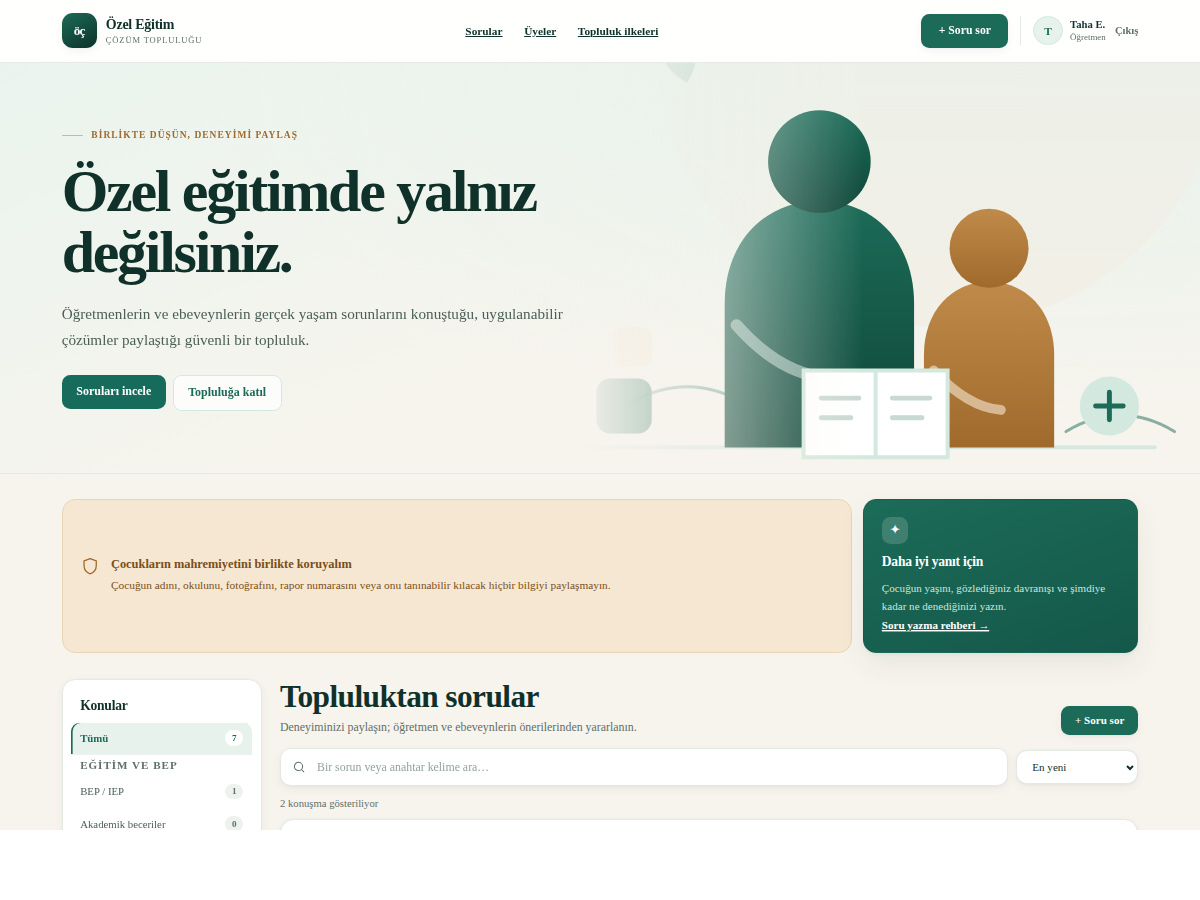
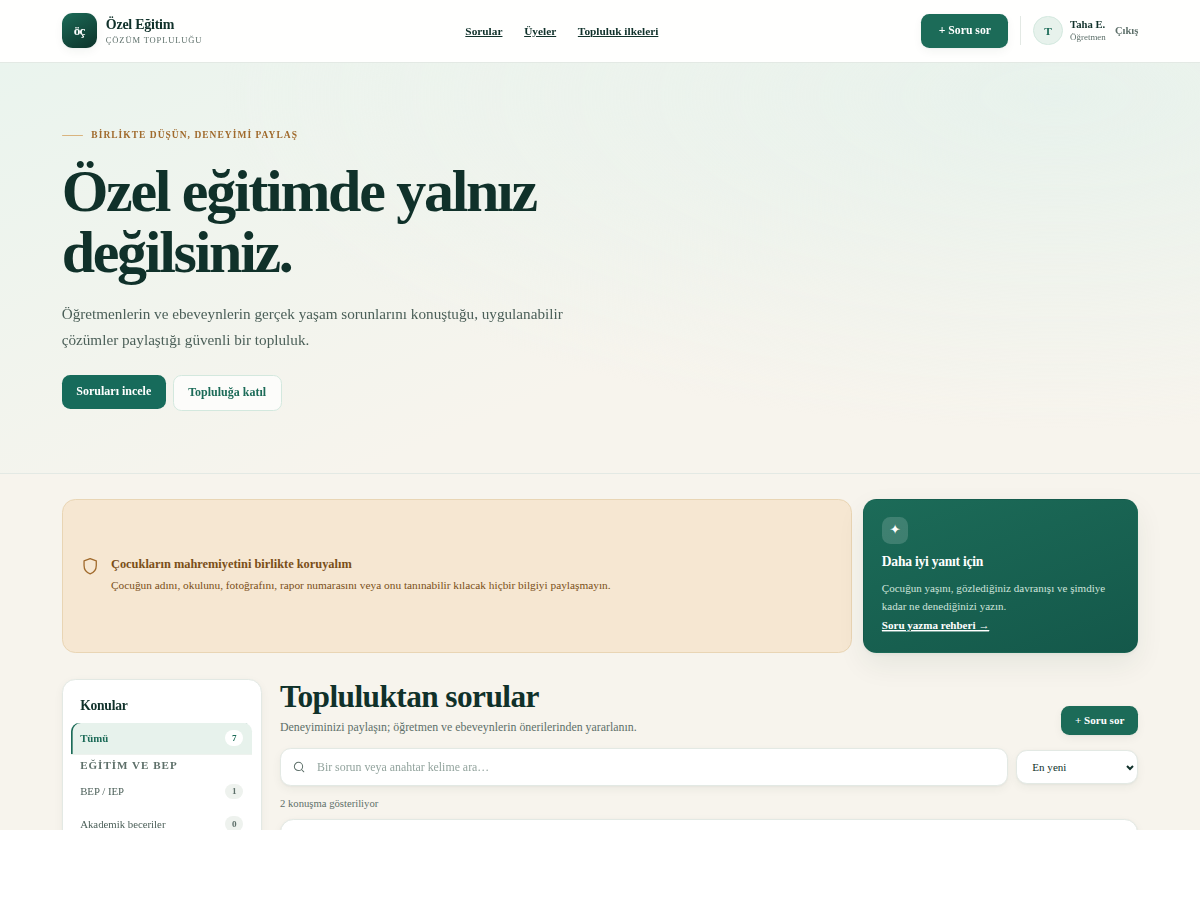
Manset gorsel alanini bos birak, fotografa hazir hale getir
Sürüm 1.4.1.

- Geçici çizim kaldırıldı (kullanıcı çizim istemiyor).
- Manşet görsel alanı boş geliyor. Fotoğraf konulmadığında ön yüzde hiç
  görünmüyor (:not(:has(img)) ile gizleniyor), manşet normal duruyor.
- Düzenleyicide alan boş görsel bloğu olarak görünüyor; "Yükle" veya "Ortam
  kitaplığı" ile fotoğraf oradan konuluyor. Sağa yaslama, silikleşme ve
  ekran boyutuna uyum temadan geldiği için hangi fotoğraf konursa konsun
  çalışıyor.
- Renkli fotoğrafların temanın soluk paletiyle çarpışmaması için hafif
  doygunluk yumuşatması ve silikleşme tarafında ince bir nane yıkaması
  eklendi (yalnızca fotoğraf varken uygulanıyor).
- README'ye telif uyarısı eklendi: bir fotoğrafın internette görünüyor
  olması onu serbest yapmaz; Google Görseller lisans kaynağı değildir.

Claude-Session: https://claude.ai/code/session_012Um5jKRdN21MgjSPUKTU4V

Changed region(s): [[0.5858, 0.1244, 0.9867, 0.5289], [0.4933, 0.4044, 0.555, 0.4978]]

diff --git a/wordpress/ozel-egitim-sohbet/style.css b/wordpress/ozel-egitim-sohbet/style.css
@@ -4,7 +4,7 @@ Theme URI: https://example.com/ozel-egitim-sohbet
 Author: Özel Eğitim Çözüm Topluluğu
 Author URI: https://example.com/
 Description: Özel eğitim öğretmenleri ve ebeveynleri için wpForo uyumlu, soru-cevap odaklı, düzenlenebilir topluluk blok teması.
-Version: 1.4.0
+Version: 1.4.1
 Requires at least: 6.7
 Tested up to: 6.8
 Requires PHP: 8.0
@@ -325,7 +325,8 @@ textarea:focus-visible,
 
 /* Manşet görseli: sağa yaslanır, sola doğru manşetin arka planına
    karışarak silikleşir. Konumu mutlak olduğu için görsel ne kadar büyük
-   olursa olsun yerleşimi itmez; taşan kısmı kırpılır. */
+   olursa olsun yerleşimi itmez; taşan kısmı kırpılır.
+   Fotoğraf konulmadığında hiçbir boşluk bırakmaz. */
 .oec-hero-media {
 	position: absolute;
 	top: 0;
@@ -343,9 +344,25 @@ textarea:focus-visible,
 	width: 100%;
 	height: 100%;
 	object-fit: cover;
-	object-position: 62% 82%;
+	object-position: 62% 50%;
 	display: block;
 	border-radius: 0;
+	/* Canlı renkli bir fotoğraf temanın soluk paletiyle çarpışmasın diye
+	   çok hafif bir yumuşatma. */
+	filter: saturate(.94);
+}
+
+/* Fotoğraf konulmadıysa alan hiç var olmasın. */
+.oec-hero-media:not(:has(img)) { display: none; }
+
+/* Solda, silikleşmenin başladığı yerde ince bir nane yıkaması: fotoğraf
+   manşet arka planına daha yumuşak karışır. */
+.oec-hero-media:has(img)::after {
+	content: "";
+	position: absolute;
+	inset: 0;
+	background: linear-gradient(to right, rgba(231, 242, 236, .5) 0%, rgba(231, 242, 236, 0) 52%);
+	pointer-events: none;
 }
 
 .oec-hero-copy { position: relative; z-index: 1; }

diff --git a/wordpress/ozel-egitim-sohbet/patterns/manset-gorseli.php b/wordpress/ozel-egitim-sohbet/patterns/manset-gorseli.php
@@ -3,13 +3,14 @@
  * Title: Manşet görseli
  * Slug: ozel-egitim-sohbet/manset-gorseli
  * Categories: featured
- * Description: Manşetin sağına yaslanan, sola doğru silikleşen görsel.
+ * Description: Manşetin sağına yaslanan, sola doğru silikleşen fotoğraf alanı.
  * Inserter: no
  *
- * Görseli değiştirmek için: Görünüm > Düzenleyici > Ana Sayfa şablonunu açın,
- * görsele tıklayın ve araç çubuğundaki "Değiştir" ile kendi fotoğrafınızı
- * yükleyin. Sağa yaslama ve silikleşme efekti temadan gelir, fotoğraf
- * değişince de aynen çalışır.
+ * Görsel bilerek boş bırakıldı. Düzenleyicide bu blok "Yükle / Ortam
+ * kitaplığı" seçenekleriyle görünür; fotoğrafı oradan koyarsınız. Sağa
+ * yaslama, silikleşme ve ekran boyutuna uyum temadan gelir, hangi fotoğrafı
+ * koyarsanız koyun aynen çalışır. Fotoğraf konulmadığı sürece ön yüzde
+ * hiçbir boşluk görünmez.
  *
  * @package OzelEgitimSohbet
  */
@@ -17,6 +18,6 @@
 ?>
 <!-- wp:group {"className":"oec-hero-media","layout":{"type":"default"}} -->
 <div class="wp-block-group oec-hero-media"><!-- wp:image {"className":"oec-hero-image","linkDestination":"none"} -->
-<figure class="wp-block-image oec-hero-image"><img src="<?php echo esc_url( get_theme_file_uri( 'assets/img/hero.svg' ) ); ?>" alt="<?php esc_attr_e( 'Bir yetişkin ve bir çocuk yan yana oturmuş birlikte kitap okuyor', 'ozel-egitim-sohbet' ); ?>"/></figure>
+<figure class="wp-block-image oec-hero-image"></figure>
 <!-- /wp:image --></div>
 <!-- /wp:group -->

diff --git a/wordpress/ozel-egitim-sohbet/functions.php b/wordpress/ozel-egitim-sohbet/functions.php
@@ -9,7 +9,7 @@ if ( ! defined( 'ABSPATH' ) ) {
 	exit;
 }
 
-define( 'OEC_THEME_VERSION', '1.4.0' );
+define( 'OEC_THEME_VERSION', '1.4.1' );
 
 require_once get_theme_file_path( 'inc/wpforo-data.php' );
 require_once get_theme_file_path( 'inc/shortcodes.php' );
